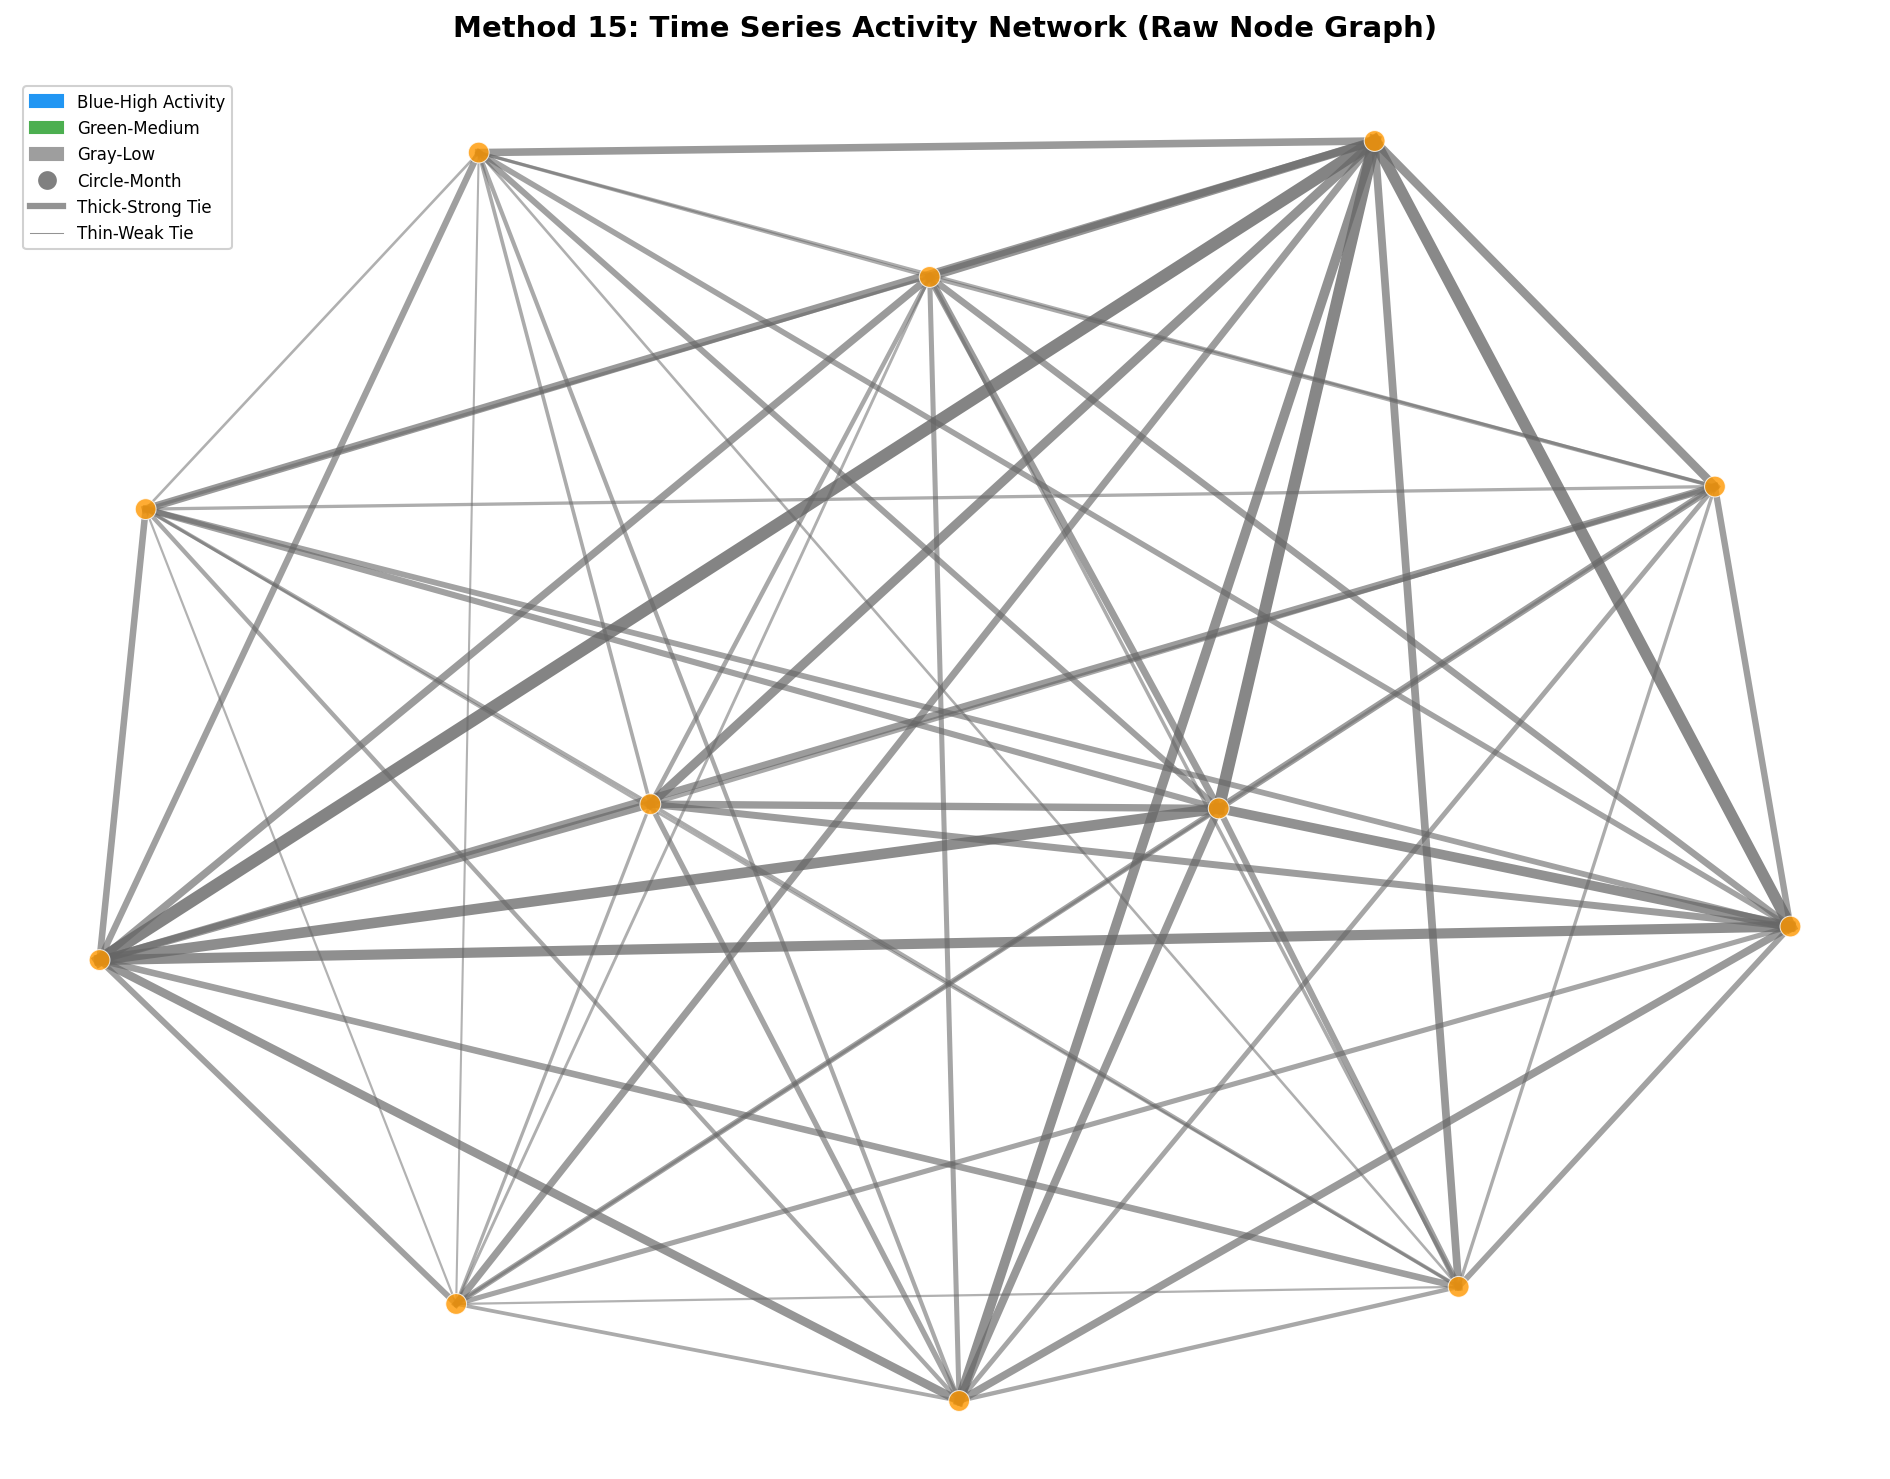
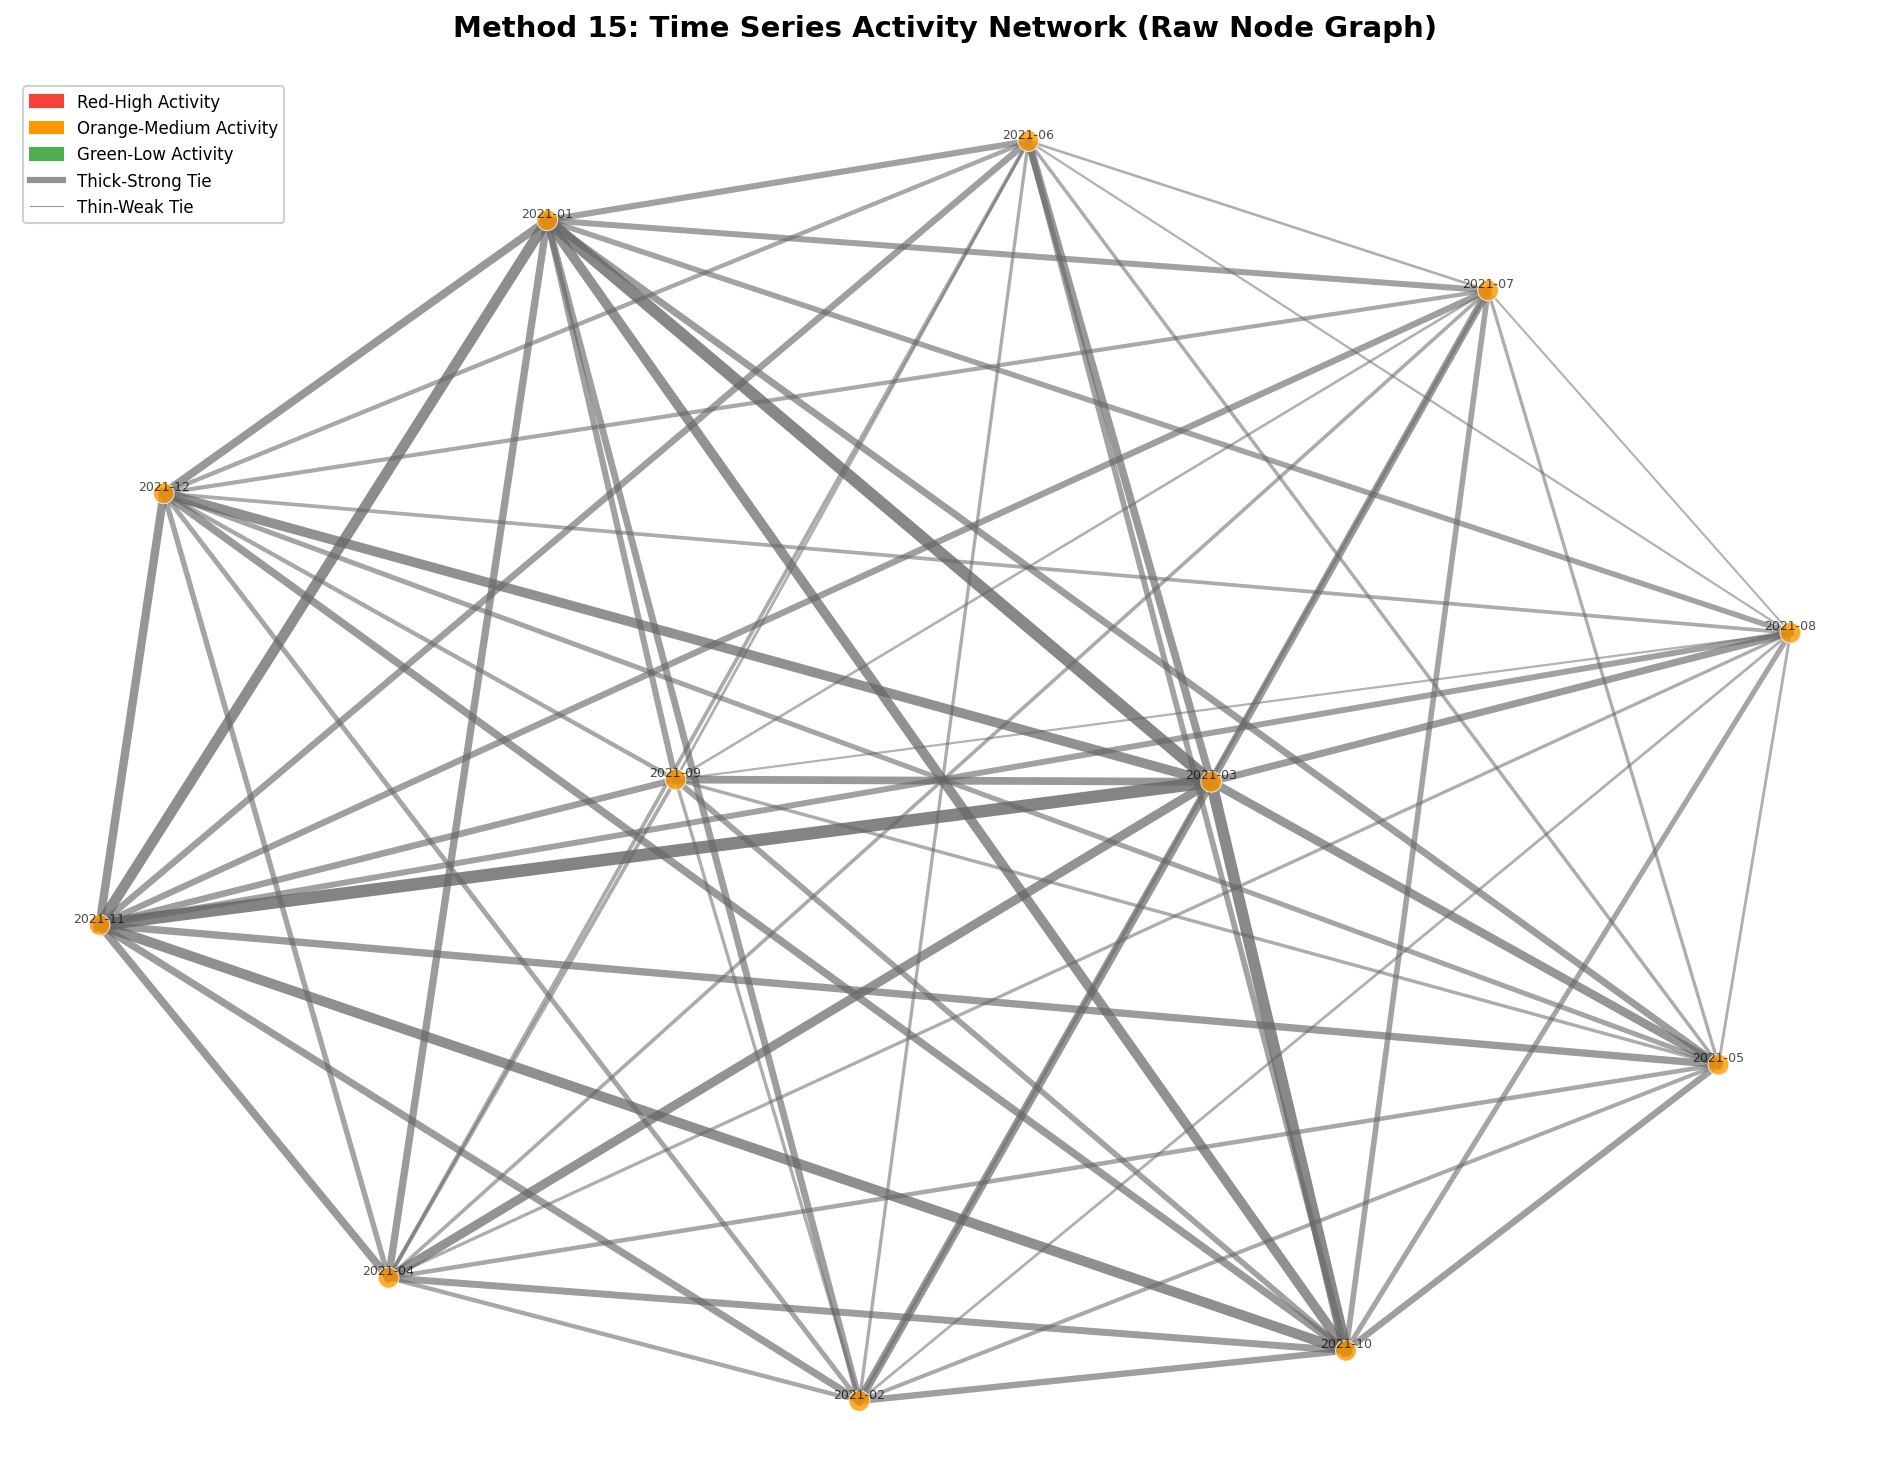
fix: 圖 15

Changed region(s): [[0.0312, 0.0933, 0.9677, 0.9642], [0.0, 0.0622, 0.1561, 0.1866]]

diff --git a/src/sna_runner.py b/src/sna_runner.py
@@ -477,12 +477,9 @@ class SNARunner:
             },
             "analysis_15": {
                 "colors": {
-                    "Blue-High Activity": "#2196F3",
-                    "Green-Medium": "#4CAF50",
-                    "Gray-Low": "#9E9E9E",
-                },
-                "shapes": {
-                    "Circle-Month": "o",
+                    "Red-High Activity": "#F44336",
+                    "Orange-Medium Activity": "#FF9800",
+                    "Green-Low Activity": "#4CAF50",
                 },
                 "edge_weights": {
                     "Thick-Strong Tie": 3.0,
@@ -672,10 +669,13 @@ class SNARunner:
         if "analysis_15_time_series" in self.results:
             result = self.results["analysis_15_time_series"]
             if "graph" in result and result["graph"] is not None:
+                g = result["graph"]
+                labels = g.vs["year_month"] if "year_month" in g.vs.attribute_names() else None
                 self.plotter.plot_network_graph(
-                    result["graph"],
+                    g,
                     "Method 15: Time Series Activity Network (Raw Node Graph)",
                     color_by="activity_level",
+                    vertex_labels=labels,
                     filename="analysis_15_network_raw.png",
                     legend_info=LEGEND_INFO["analysis_15"],
                 )
